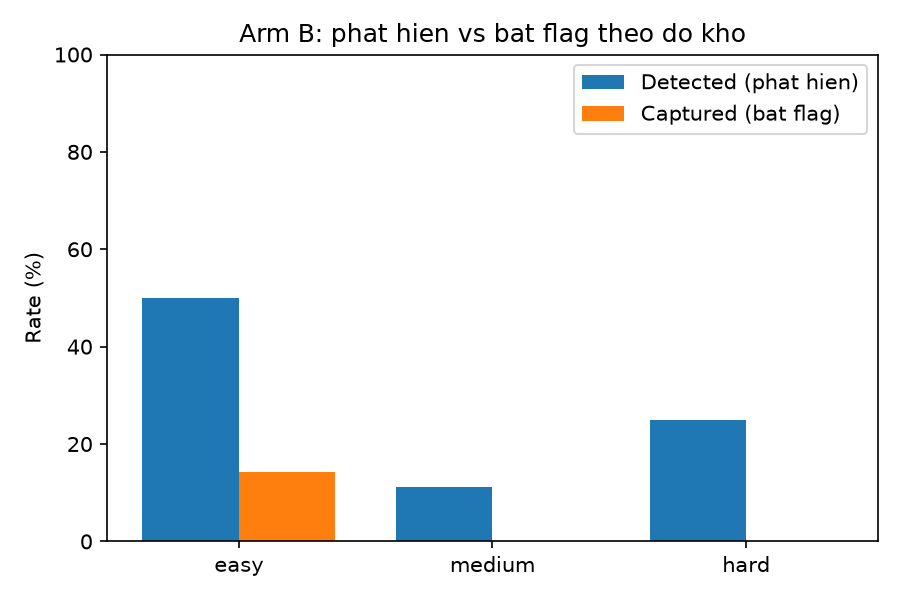
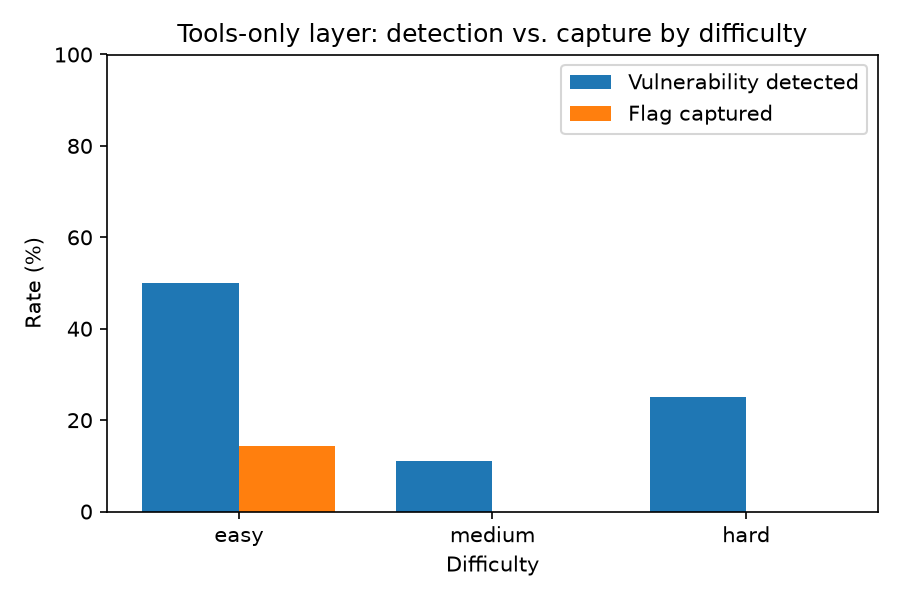
paper: final wording pass and English labels on the tools-layer figure
Figure 2 carried Vietnamese labels and an "Arm B" title that contradicted the
reference-layer framing; relabel it in English as the tools-only layer. State
the rerun record accurately (only 032 has two rows; 075 resumed in-session),
give the commercial-model steering figure as 0.6 per target to match Table III,
use "traditional arm" consistently, and drop the remaining speed claims since
the AI sessions were not faster.

diff --git a/paper/paper_ieee.tex b/paper/paper_ieee.tex
@@ -100,7 +100,7 @@ Targets come from the XBOW validation benchmarks, each a Docker image with one p
 Every arm is capped at thirty minutes of active time per target. The AI arms follow the assistant loop, in which the model proposes a step, the operator runs it, and the raw output is pasted back. The information given to the AI matches what the non-AI pipeline uses to select its exploiter: the operator states only the vulnerability class and the target URL. The model must discover the endpoint, the parameter, and the technique by itself. The two human testers received the same starting information, the vulnerability class and the URL, so the arms are matched on what they are told and differ only in method. The operator never supplies the exploit payload, the endpoint, or the technique, and any session where that line is crossed is scored unsolved and flagged. When the model is vague, the operator asks it for the concrete value rather than guessing one. We separate the mechanical act of running a proposed command from a genuine course-correction, such as rejecting a wrong step or pulling the model back on task, and we count only the latter as an intervention. Refusals, where the model declines the task on safety grounds, are recorded as their own outcome.
 
 \subsection{Sampling across the arms}
-The two non-AI measurements, the human layer and the automated tooling, run on all forty targets. The AI arms do not, because each human-in-the-loop session consumes a full thirty-minute operator slot, so forty runs per model is not affordable. We therefore evaluate the AI arms on purposive subsets, which are reproducible but not random. The local-model arm uses a twelve-target subset spanning the main vulnerability classes, each paired to its own human and tooling result on the same target. The commercial-model arm extends this to twenty-four, the same twelve plus twelve more chosen by a deterministic rule that ranks the remaining challenges by difficulty and by not-yet-covered class, which yields a hard-weighted, class-diverse set. Because these subsets are purposive, we do not report an AI solve rate as a population estimate and we do not attach a confidence interval to it. Results are reported paired per target and broken down by class and difficulty. The comparison of record is whether, on the same target, the AI arm captures the flag that the human or the tooling did or did not. The local-against-commercial contrast is defined only on the twelve shared targets, where the human and both models all ran. Each target is run once per arm. Where a session was interrupted by an environment failure rather than by the model, such as a host crash, it was restarted from the same target and only the completed attempt was scored; this happened on two targets (032 and 075), which is why the raw log holds twenty-five commercial-model rows for twenty-four distinct targets. We did not otherwise re-run a target to obtain a better outcome.
+The two non-AI measurements, the human layer and the automated tooling, run on all forty targets. The AI arms do not, because each human-in-the-loop session consumes a full thirty-minute operator slot, so forty runs per model is not affordable. We therefore evaluate the AI arms on purposive subsets, which are reproducible but not random. The local-model arm uses a twelve-target subset spanning the main vulnerability classes, each paired to its own human and tooling result on the same target. The commercial-model arm extends this to twenty-four, the same twelve plus twelve more chosen by a deterministic rule that ranks the remaining challenges by difficulty and by not-yet-covered class, which yields a hard-weighted, class-diverse set. Because these subsets are purposive, we do not report an AI solve rate as a population estimate and we do not attach a confidence interval to it. Results are reported paired per target and broken down by class and difficulty. The comparison of record is whether, on the same target, the AI arm captures the flag that the human or the tooling did or did not. The local-against-commercial contrast is defined only on the twelve shared targets, where the human and both models all ran. Each target is run once per arm. Where a session was interrupted by an environment failure rather than by the model, such as a host crash, it was restarted from the same target and only the completed attempt was scored; this happened on one target (032), whose interrupted first attempt is kept in the raw log, which is why the log holds twenty-five commercial-model rows for twenty-four distinct targets. A second target (075) was resumed within the same session after a host crash and has a single row. We did not otherwise re-run a target to obtain a better outcome.
 
 \subsection{Infrastructure and reproducibility}
 A harness builds each target, starts it, finds the web port, waits for a real HTTP response, and records the URL. Because the benchmarks date from 2024, several base images are end-of-life, so the harness applies compatibility-only patches, such as bumping a broken image or repointing the package archive, and logs every one. These patches never touch the vulnerability or the flag. The local model runs under Ollama as qwen2.5:7b in four-bit quantisation, which is a conservative lower bound on model capability rather than a ceiling. The commercial model is deepseek-v4-pro, reached through the APIVN hosted gateway, with all runs carried out between October and November 2026; we name the gateway and the run window because a hosted model can change silently over time. PentestGPT was used in its assistant mode, and we record its version and the decoding temperature with the released code so the configuration can be reproduced. Every run writes one row to a results file, and the analysis is automated so that the tables below are regenerated from the raw data.
@@ -135,7 +135,7 @@ All    & 40 & 11 (27.5\%) & 2 (5.0\%) \\
 \end{figure}
 
 \subsection{Overall capture across the arms}
-Table~\ref{tab:summary} gives the headline numbers. The human arm captures 55\% of the forty targets. The local model captures three of its twelve targets, and the commercial model thirteen of its twenty-four. Because the three denominators differ, and the AI subsets are deliberately skewed, these rates are not directly comparable, and the paired numbers in the next subsection are the ones that carry the argument. What the table does show cleanly is the cost side. The human interventions fall from two per target with the local model to about one every one and a half targets with the commercial model, and no arm produced a single refusal.
+Table~\ref{tab:summary} gives the headline numbers. The traditional arm captures 55\% of the forty targets. The local model captures three of its twelve targets, and the commercial model thirteen of its twenty-four. Because the three denominators differ, and the AI subsets are deliberately skewed, these rates are not directly comparable, and the paired numbers in the next subsection are the ones that carry the argument. What the table does show cleanly is the cost side. The human interventions fall from two per target with the local model to about 0.6 per target with the commercial model, and no arm produced a single refusal.
 
 \begin{table*}[!t]
 \centering
@@ -241,7 +241,7 @@ Cryptographic weakness         & 0/1 & 0/1 \\
 The single clearest pattern is the jump from the local model to the commercial model on the same twelve targets, from three captures to eight, with nothing changed in the harness but the model behind the same assistant workflow. We cannot isolate model size as the cause, because the two models differ on several axes at once: parameter count, model generation (a 2024 open model against a 2026 commercial one), four-bit quantisation of the local model, and the local-versus-hosted split. What we can say is that, holding the workflow fixed, the change of model more than doubled captures. The local model failed in ways that have a specific character. It ignored the 404 and 405 responses that told it a path was wrong, it did not log in to applications that gate the vulnerable feature behind authentication, and it repeated the same wrong command several times without reading the signal in the reply. These are not failures of penetration testing as an idea. They read as failures of a small quantised model to hold a plan, and with the larger model they mostly disappear. The practical lesson for a team is that a conclusion drawn from a small local model does not transfer to a strong hosted one, and some of the pessimism about AI pentesting in the literature may be measuring model scale and generation as much as method. Isolating size on its own would need a controlled sweep that holds generation and quantisation fixed, which we flag as future work.
 
 \subsection{The commercial model reaches the human, but by a different route}
-On the harder twenty-four-target set the commercial model captures thirteen targets and the human captures twelve, yet they agree on only about half of those. Each captures roughly six targets the other misses. The model wins where the exploit is a clean, textbook chain in an injection or template class, where it drives the whole sequence from reconnaissance to a working payload at speed and without steering. The human wins where the path is less standard, in deserialisation that needs a hand-written gadget, in an XXE flaw whose real sink sits behind an authentication wall, and in a blind SQL injection whose flag lay behind an uncrackable password hash. The reading is not that one is better. It is that a strong model is a fast shortcut on the common, well-shaped vulnerabilities, and the human remains the one who closes the awkward, multi-stage, out-of-pattern cases. A team that uses both gets the union, which on this set is larger than either alone. One caveat frames the parity: the human here is a staff-level tester, and in the team's assessment a more senior tester would move clearly ahead of the model, so this is the model drawing level with a competent human rather than with the ceiling of the craft.
+On the harder twenty-four-target set the commercial model captures thirteen targets and the human captures twelve, yet they agree on only about half of those. Each captures roughly six targets the other misses. The model wins where the exploit is a clean, textbook chain in an injection or template class, where it drives the whole sequence from reconnaissance to a working payload without steering. The human wins where the path is less standard, in deserialisation that needs a hand-written gadget, in an XXE flaw whose real sink sits behind an authentication wall, and in a blind SQL injection whose flag lay behind an uncrackable password hash. The reading is not that one is better. It is that a strong model is a low-supervision shortcut on the common, well-shaped vulnerabilities, and the human remains the one who closes the awkward, multi-stage, out-of-pattern cases. A team that uses both gets the union, which on this set is larger than either alone. One caveat frames the parity: the human here is a staff-level tester, and in the team's assessment a more senior tester would move clearly ahead of the model, so this is the model drawing level with a competent human rather than with the ceiling of the craft.
 
 \subsection{The model's ceiling is writing the exploit, not recognising it}
 Two targets isolate the limit most sharply. On a cryptographic challenge the model correctly ruled out a hash hypothesis, named the weakness as a cipher-block-chaining padding oracle, and confirmed the oracle by distinguishing the two server responses. It then had to produce the attack script, and it failed three times in a row, each time pasting back code with the same type error while describing the correct fix in words. On a deserialisation challenge it identified a Python pickle cookie, proved that the sink reached a server-side eval by triggering an error, and then failed four times to fill in the payload, again repeating a broken script while explaining in prose what the script should do. The cleanest control is a pair of sibling targets in the same application, one that serialised with YAML and one with pickle. The model solved the YAML target, where the exploit is a single declarative tag, and failed the pickle target, where the exploit requires writing a small Python class. The recognition was complete in both cases. What separated solve from non-solve was whether the final exploit could be stated as one line or had to be written as precise, multi-part code. This is a concrete, reproducible location for the ceiling of a current strong model.
@@ -253,7 +253,7 @@ A low capture rate invites the reading that the model did not understand the tar
 Two practical observations support the assistant reading. The human interventions needed to keep the model on task fell from two per target with the local model to about 0.6 with the commercial model, and most of the remaining interventions were the operator declining to run a full port scan, an environment choice rather than a solving hint and not a model refusal. On cost, we did not log per-target token counts uniformly, so we report the pattern qualitatively rather than as a table: the running cost of the hosted model tracked the number of dialogue turns, not the number of HTTP requests sent at the target. Sessions that fired hundreds of blind-injection probes or millions of brute-force attempts against a local container stayed cheap, because those requests never touched the model, while the expensive sessions were the ones with long, repeated reasoning, such as the padding-oracle target, where the model consumed on the order of three times the dialogue of a clean solve while never capturing the flag. A full cost accounting is left to future work. None of the arms produced a single model refusal, so for this toolchain and these targets the safety filter was not a barrier, though we treat that as a property of the specific model and task rather than a general result.
 
 \subsection{Answering the research questions}
-On RQ1, under one protocol the traditional arm captures 55\% of forty targets and the tools alone 5\%, with the paired breakdown on the shared twelve in Table~\ref{tab:paired}. The effort behind those captures separates the arms as well. A human session averaged 21 minutes and 12 steps, a local-model session 25 minutes and 7 steps, and a commercial-model session 26 minutes and 13 steps, so the AI runs were not faster in wall-clock terms on this set. The steering the models needed is the sharper signal: the human course-corrections fell from two per target with the local model to about one every one and a half targets with the commercial one, which marks the shift from a tool that must be guided to one that mostly drives itself. On RQ2, the small model collapses past easy targets while the commercial model holds above a third even on hard ones, and the human is strongest in the easy-to-medium band. On RQ3, the arms split by class in a complementary way, with the model ahead on injection and template classes and the human ahead on deserialisation, XXE, and blind injection, subject to the small per-class counts. On RQ4, one of the three barriers is answered directly: no arm produced a model refusal. The running cost tracked reasoning turns rather than attack volume, but we did not log it uniformly enough to report a full accounting, so we give it qualitatively. Memorisation we could not measure cleanly with the hint-removed runs completed so far, so we report it as a limitation and a target for future work rather than a result, for the reasons set out in Section~\ref{sec:threats}.
+On RQ1, under one protocol the traditional arm captures 55\% of forty targets and the tools alone 5\%, with the paired breakdown on the shared twelve in Table~\ref{tab:paired}. The effort behind those captures separates the arms as well. A human session averaged 21 minutes and 12 steps, a local-model session 25 minutes and 7 steps, and a commercial-model session 26 minutes and 13 steps, so the AI runs were not faster in wall-clock terms on this set. The steering the models needed is the sharper signal: the human course-corrections fell from two per target with the local model to about 0.6 per target with the commercial one, which marks the shift from a tool that must be guided to one that mostly drives itself. On RQ2, the small model collapses past easy targets while the commercial model holds above a third even on hard ones, and the human is strongest in the easy-to-medium band. On RQ3, the arms split by class in a complementary way, with the model ahead on injection and template classes and the human ahead on deserialisation, XXE, and blind injection, subject to the small per-class counts. On RQ4, one of the three barriers is answered directly: no arm produced a model refusal. The running cost tracked reasoning turns rather than attack volume, but we did not log it uniformly enough to report a full accounting, so we give it qualitatively. Memorisation we could not measure cleanly with the hint-removed runs completed so far, so we report it as a limitation and a target for future work rather than a result, for the reasons set out in Section~\ref{sec:threats}.
 
 \section{Threats to Validity}
 \label{sec:threats}

diff --git a/paper/paper_sci2027.tex b/paper/paper_sci2027.tex
@@ -37,7 +37,7 @@ Nguyễn Quốc Anh (SE183620), Lê Minh Dương (SE184079)\\[4pt]
 
 \begin{abstract}
 \noindent
-Security tools built on large language models now advertise high success rates on penetration-testing benchmarks, yet those rates are seldom obtained under the same conditions as a human tester or a classic scanner, which makes them hard to trust. We address this with a controlled comparison that runs three approaches over one shared target set of forty web capture-the-flag challenges drawn by stratified sampling from the XBOW validation benchmarks. The three arms share the same thirty-minute budget and the same exact-match scoring rule: a traditional arm in which a human tester works by hand with the standard non-AI tools, and two AI-assisted arms that pair a human operator with a language model, one a local seven-billion-parameter model and one a commercial hosted model. We keep the automated tooling as a separate reference layer and read it against the arms. On its own the tooling detects a vulnerability in 27.5\% of targets but captures the flag in only 5\%, a gap that shows where automation stalls. The human arm captures 55\% of the forty targets. On the twelve targets common to all three approaches, the human captures six, the local model three, and the commercial model eight. On the harder twenty-four-target set that the commercial model covers, it captures thirteen while the human captures twelve of the same targets, but the two overlap only in part, since each solves about six targets the other misses. We read the results as indicative rather than conclusive, given the small paired sets. They are consistent with the weakness often attributed to AI being in large part a property of small models, and with a strong model acting as an assistant that complements rather than replaces the human tester, its clearest ceiling being the writing of precise multi-step exploit code. The parity we observe is with a staff-level tester, and a more senior tester would likely lead, so we read it as the model reaching a competent human rather than the best one.
+Security tools built on large language models now advertise high success rates on penetration-testing benchmarks, yet those rates are seldom obtained under the same conditions as a human tester or a classic scanner, which makes them hard to trust. We address this with a controlled comparison that runs three approaches over one shared target set of forty web capture-the-flag challenges drawn by stratified sampling from the XBOW validation benchmarks. The three arms share the same thirty-minute budget and the same exact-match scoring rule: a traditional arm in which a human tester works by hand with the standard non-AI tools, and two AI-assisted arms that pair a human operator with a language model, one a local seven-billion-parameter model and one a commercial hosted model. We keep the automated tooling as a separate reference layer and read it against the arms. On its own the tooling detects a vulnerability in 27.5\% of targets but captures the flag in only 5\%, a gap that shows where automation stalls. The traditional arm captures 55\% of the forty targets. On the twelve targets common to all three approaches, the human captures six, the local model three, and the commercial model eight. On the harder twenty-four-target set that the commercial model covers, it captures thirteen while the human captures twelve of the same targets, but the two overlap only in part, since each solves about six targets the other misses. We read the results as indicative rather than conclusive, given the small paired sets. They are consistent with the weakness often attributed to AI being in large part a property of small models, and with a strong model acting as an assistant that complements rather than replaces the human tester, its clearest ceiling being the writing of precise multi-step exploit code. The parity we observe is with a staff-level tester, and a more senior tester would likely lead, so we read it as the model reaching a competent human rather than the best one.
 
 \vspace{6pt}
 \noindent\textbf{Keywords:} penetration testing; large language models; web application security; controlled benchmark; vulnerability exploitation; PentestGPT; memorisation
@@ -157,7 +157,7 @@ The gap between detection and capture, roughly five to one, is the first result.
 \end{figure}
 
 \subsection{Overall capture across the arms}
-Table~\ref{tab:summary} gives the headline numbers. The human arm captures 55\% of the forty targets. The local model captures three of its twelve targets, and the commercial model captures thirteen of its twenty-four. Because the three denominators differ, and the AI subsets are deliberately skewed, these rates are not directly comparable, and the paired numbers in the next subsection are the ones that carry the argument. What Table~\ref{tab:summary} does show cleanly is the cost side. The human interventions fall from two per target with the local model to about one every one and a half targets with the commercial model, and no arm produced a single refusal.
+Table~\ref{tab:summary} gives the headline numbers. The traditional arm captures 55\% of the forty targets. The local model captures three of its twelve targets, and the commercial model captures thirteen of its twenty-four. Because the three denominators differ, and the AI subsets are deliberately skewed, these rates are not directly comparable, and the paired numbers in the next subsection are the ones that carry the argument. What Table~\ref{tab:summary} does show cleanly is the cost side. The human interventions fall from two per target with the local model to about 0.6 per target with the commercial model, and no arm produced a single refusal.
 
 \begin{table}[htbp]
 \centering
@@ -269,7 +269,7 @@ Cryptographic weakness         & 0/1 & 0/1 \\
 The single clearest finding is the jump from the local model to the commercial model on the same twelve targets, from three captures to eight, with nothing changed but the model behind the same assistant workflow. The local model failed in ways that have a specific character. It ignored the 404 and 405 responses that told it a path was wrong, it did not log in to applications that gate the vulnerable feature behind authentication, and it repeated the same wrong command several times without reading the signal in the reply. These are not failures of penetration testing as an idea. They are failures of a seven-billion-parameter model to hold a plan. With the larger model they mostly disappear. The practical lesson for a team is that a conclusion drawn from a small local model does not transfer to a strong hosted one, and much of the pessimism about AI pentesting in the literature may be measuring model size as much as method.
 
 \subsection{The commercial model reaches the human, but by a different route}
-On the harder twenty-four-target set the commercial model captures thirteen targets and the human captures twelve, yet they agree on only about half of those. Each captures roughly six targets the other misses. The model wins where the exploit is a clean, textbook chain in an injection or template class, where it drives the whole sequence from reconnaissance to a working payload at speed and without steering. The human wins where the path is less standard, in deserialisation that needs a hand-written gadget, in an XXE flaw whose real sink sits behind an authentication wall, and in a blind SQL injection whose flag lay behind an uncrackable password hash. The reading is not that one is better. It is that a strong model is a fast shortcut on the common, well-shaped vulnerabilities, and the human remains the one who closes the awkward, multi-stage, out-of-pattern cases. A team that uses both gets the union, which on this set is larger than either alone. One caveat frames the parity: the human here is a staff-level tester, and in the team's assessment a more senior tester would move clearly ahead of the model, so this is the model drawing level with a competent human rather than with the ceiling of the craft.
+On the harder twenty-four-target set the commercial model captures thirteen targets and the human captures twelve, yet they agree on only about half of those. Each captures roughly six targets the other misses. The model wins where the exploit is a clean, textbook chain in an injection or template class, where it drives the whole sequence from reconnaissance to a working payload without steering. The human wins where the path is less standard, in deserialisation that needs a hand-written gadget, in an XXE flaw whose real sink sits behind an authentication wall, and in a blind SQL injection whose flag lay behind an uncrackable password hash. The reading is not that one is better. It is that a strong model is a low-supervision shortcut on the common, well-shaped vulnerabilities, and the human remains the one who closes the awkward, multi-stage, out-of-pattern cases. A team that uses both gets the union, which on this set is larger than either alone. One caveat frames the parity: the human here is a staff-level tester, and in the team's assessment a more senior tester would move clearly ahead of the model, so this is the model drawing level with a competent human rather than with the ceiling of the craft.
 
 \subsection{The model's ceiling is writing the exploit, not recognising it}
 Two targets isolate the limit most sharply. On a cryptographic challenge the model correctly ruled out a hash hypothesis, named the weakness as a cipher-block-chaining padding oracle, and confirmed the oracle by distinguishing the two server responses. It then had to produce the attack script, and it failed three times in a row, each time pasting back code with the same type error while describing the correct fix in words. On a deserialisation challenge it identified a Python pickle cookie, proved that the sink reached a server-side eval by triggering an error, and then failed four times to fill in the payload, again repeating a broken script while explaining in prose what the script should do. The cleanest control is a pair of sibling targets in the same application, one that serialised with YAML and one with pickle. The model solved the YAML target, where the exploit is a single declarative tag, and failed the pickle target, where the exploit requires writing a small Python class. The recognition was complete in both cases. What separated solve from non-solve was whether the final exploit could be stated as one line or had to be written as precise, multi-part code. This is a concrete, reproducible location for the ceiling of a current strong model, and it is not the place most informal discussion puts it.
@@ -281,7 +281,7 @@ A low capture rate invites the reading that the model did not understand the tar
 Two practical numbers support the assistant reading. The human interventions needed to keep the model on task fell from two per target with the local model to about 0.6 with the commercial model, and most of the remaining interventions were the operator declining to run a full port scan, which is an environment detail rather than a solving hint and not a model refusal. On cost, we observed that the running cost of the hosted model scaled with the number of dialogue turns, not with the number of HTTP requests sent at the target. Sessions that fired hundreds of blind-injection probes or millions of brute-force attempts against a local container stayed cheap, because those requests never touched the model. The expensive sessions were the ones with long, repeated reasoning, such as the padding-oracle target, where the model cost roughly three times a clean solve while never capturing the flag. None of the arms produced a single task refusal, so for this toolchain and these targets the safety filter was not a barrier, though we treat that as a property of the specific model and task rather than a general result.
 
 \subsection{Answering the research questions}
-On RQ1, under one protocol the human captures 55\% of forty targets, the tools alone 5\%, and on the shared twelve the human, the local model, and the commercial model capture six, three, and eight. The effort behind those captures separates the arms as well. A human session averaged 21 minutes and 12 steps, a local-model session 25 minutes and 7 steps, and a commercial-model session 26 minutes and 13 steps, so the AI runs were not faster in wall-clock terms on this set. The steering the models needed is the sharper signal: the human course-corrections fell from two per target with the local model to about one every one and a half targets with the commercial one, which marks the shift from a tool that has to be guided to one that mostly drives itself. On RQ2, the small model collapses past easy targets while the commercial model holds above a third even on hard ones, and the human is strongest in the easy-to-medium band. On RQ3, the arms split by class in a complementary way, with the model owning injection and template classes and the human owning deserialisation, XXE, and blind injection. On RQ4, two of the three barriers are answered directly: refusals were zero across all arms, and the running cost tracked reasoning turns rather than attack volume. The third, memorisation, we could not measure cleanly with the hint-removed runs completed so far, so we report it as a limitation and a target for future work rather than a result, for the reasons set out in Section~\ref{sec:threats}.
+On RQ1, under one protocol the human captures 55\% of forty targets, the tools alone 5\%, and on the shared twelve the human, the local model, and the commercial model capture six, three, and eight. The effort behind those captures separates the arms as well. A human session averaged 21 minutes and 12 steps, a local-model session 25 minutes and 7 steps, and a commercial-model session 26 minutes and 13 steps, so the AI runs were not faster in wall-clock terms on this set. The steering the models needed is the sharper signal: the human course-corrections fell from two per target with the local model to about 0.6 per target with the commercial one, which marks the shift from a tool that has to be guided to one that mostly drives itself. On RQ2, the small model collapses past easy targets while the commercial model holds above a third even on hard ones, and the human is strongest in the easy-to-medium band. On RQ3, the arms split by class in a complementary way, with the model owning injection and template classes and the human owning deserialisation, XXE, and blind injection. On RQ4, two of the three barriers are answered directly: refusals were zero across all arms, and the running cost tracked reasoning turns rather than attack volume. The third, memorisation, we could not measure cleanly with the hint-removed runs completed so far, so we report it as a limitation and a target for future work rather than a result, for the reasons set out in Section~\ref{sec:threats}.
 
 \section{Threats to Validity}
 \label{sec:threats}

diff --git a/project/analysis/analyze.py b/project/analysis/analyze.py
@@ -143,12 +143,13 @@ def bar_detect_vs_capture(by_diff):
     w = 0.38
     order = [d for d in ["easy", "medium", "hard"] if d in by_diff.index]
     t = by_diff.reindex(order)
-    ax.bar([i - w / 2 for i in x], t["detect_rate_pct"], w, label="Detected (phat hien)")
-    ax.bar([i + w / 2 for i in x], t["capture_rate_pct"], w, label="Captured (bat flag)")
+    ax.bar([i - w / 2 for i in x], t["detect_rate_pct"], w, label="Vulnerability detected")
+    ax.bar([i + w / 2 for i in x], t["capture_rate_pct"], w, label="Flag captured")
     ax.set_xticks(list(x))
     ax.set_xticklabels(list(t.index))
     ax.set_ylabel("Rate (%)")
-    ax.set_title("Arm B: phat hien vs bat flag theo do kho")
+    ax.set_xlabel("Difficulty")
+    ax.set_title("Tools-only layer: detection vs. capture by difficulty")
     ax.set_ylim(0, 100)
     ax.legend()
     fig.tight_layout()
@@ -204,12 +205,12 @@ def bar_memorization(mem):
     arms = list(mem.index)
     x = range(len(arms))
     w = 0.38
-    ax.bar([i - w / 2 for i in x], mem["original"], w, label="Ban goc")
+    ax.bar([i - w / 2 for i in x], mem["original"], w, label="Original")
     ax.bar([i + w / 2 for i in x], mem["hintfree"], w, label="Hint-free")
     ax.set_xticks(list(x))
     ax.set_xticklabels([ARM_LABEL.get(a, a) for a in arms])
     ax.set_ylabel("Solve rate (%)")
-    ax.set_title("Hieu ung 'AI hoc thuoc': goc vs hint-free")
+    ax.set_title("Memorisation check: original vs. hint-free")
     ax.set_ylim(0, 100)
     ax.legend()
     fig.tight_layout()
